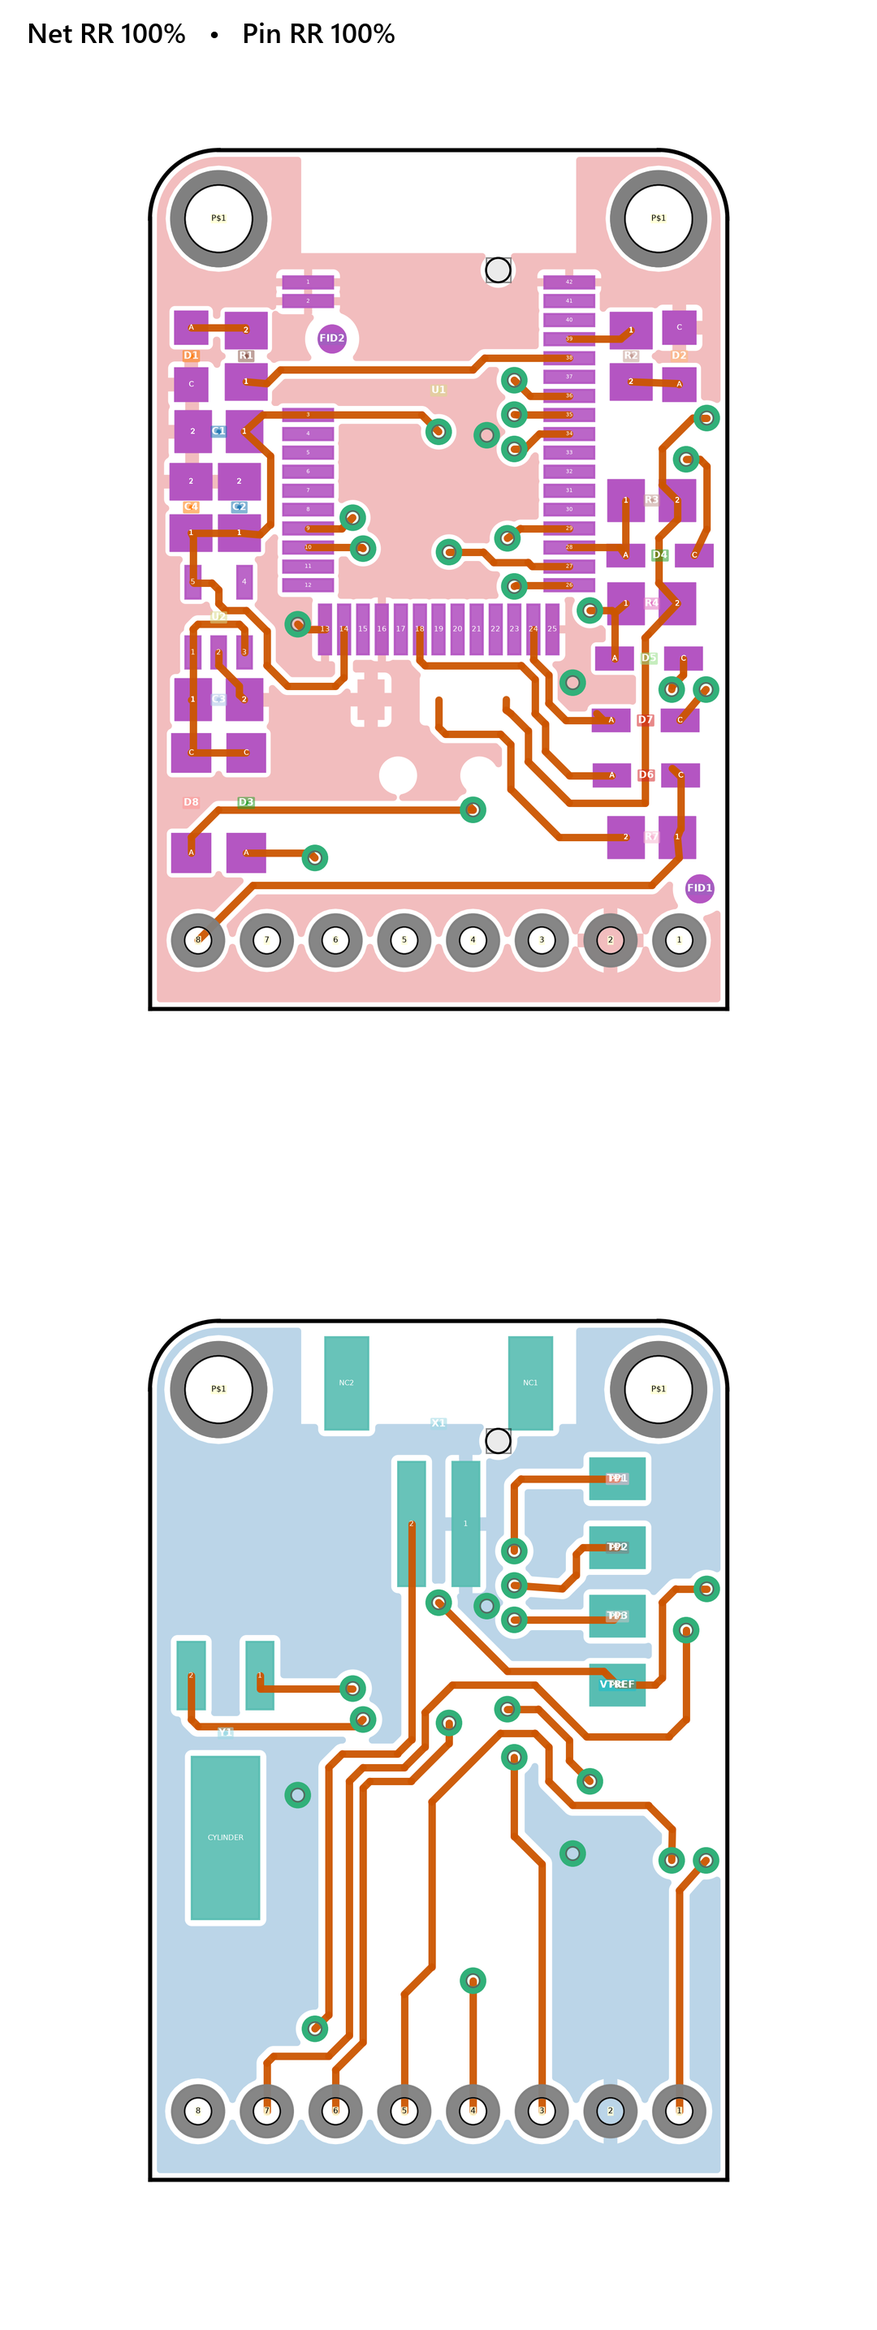
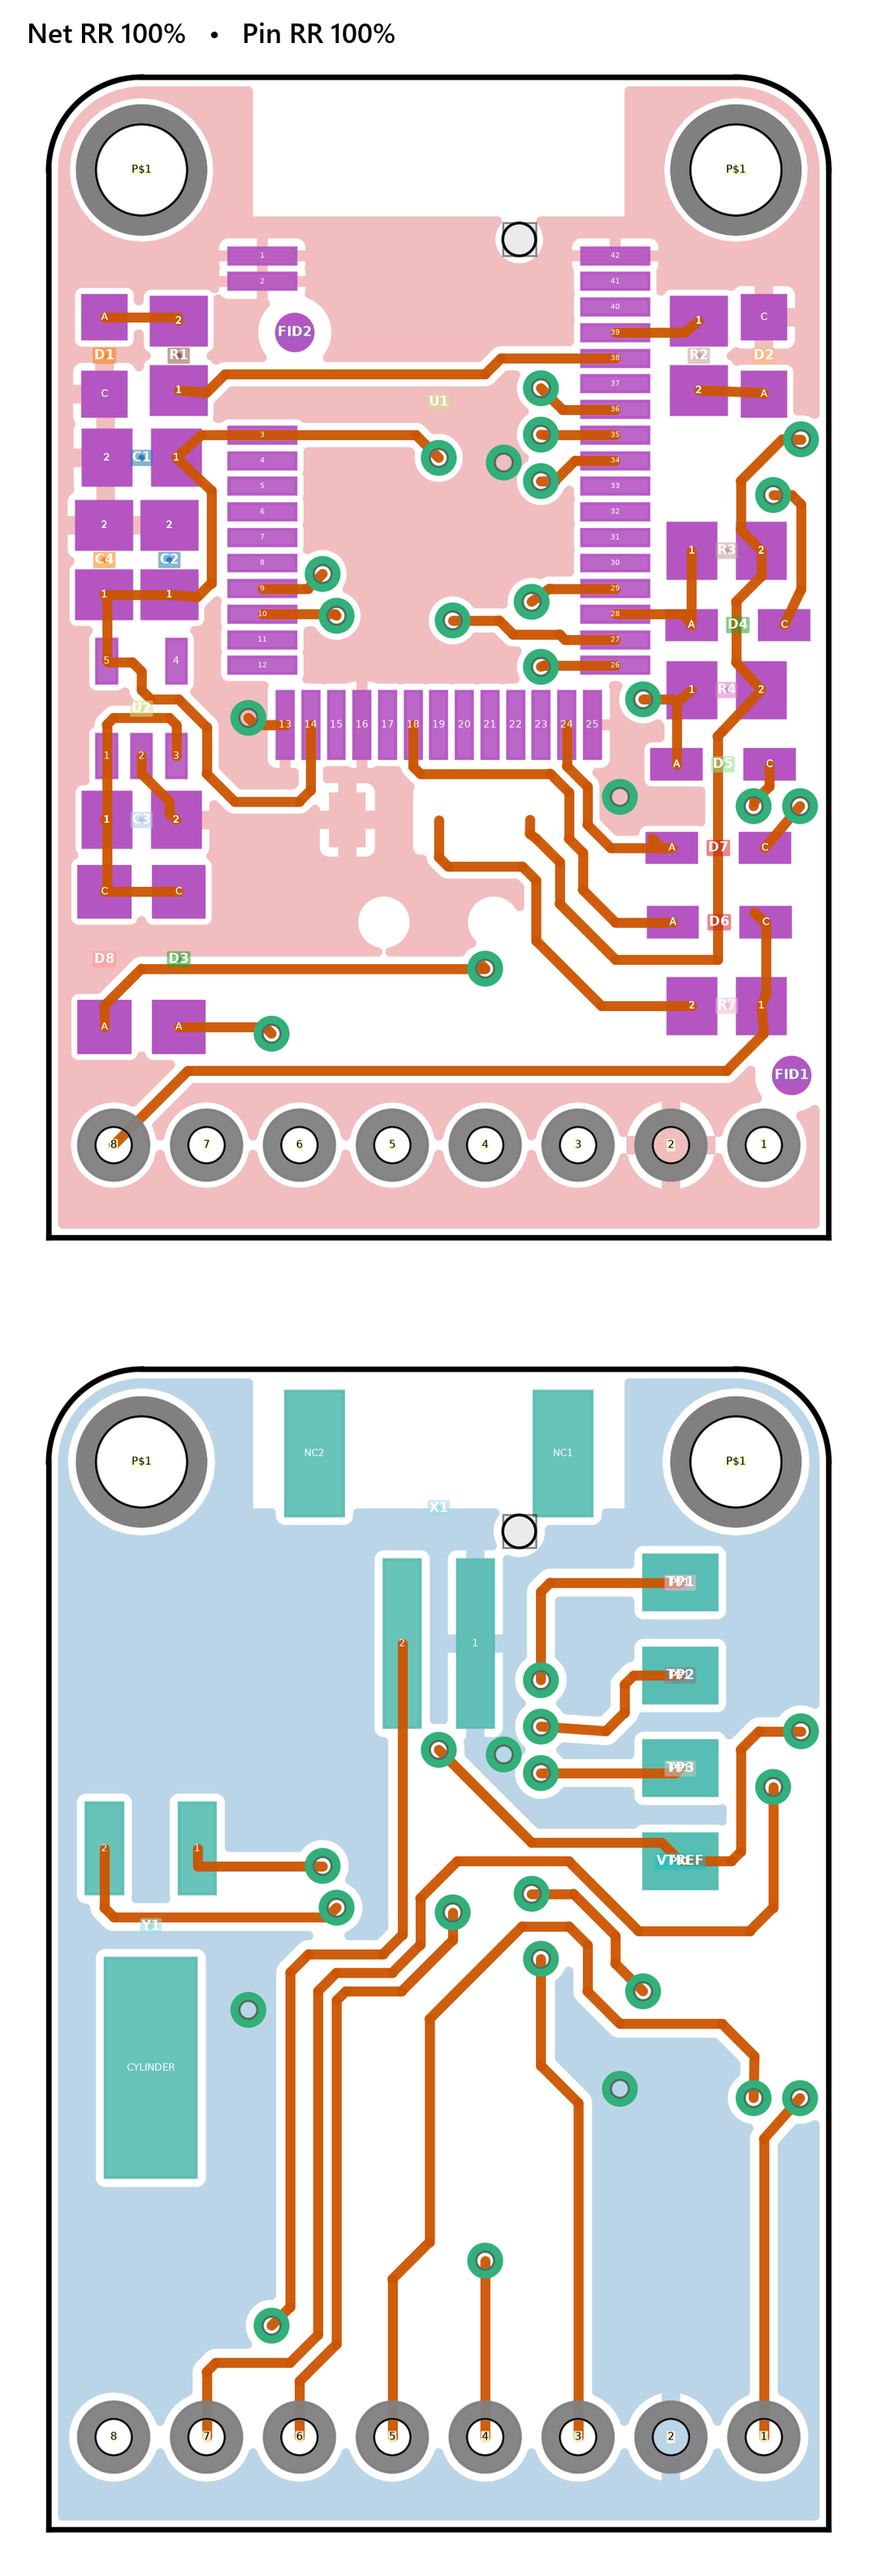
update gif

diff --git a/routing/app.js b/routing/app.js
@@ -153,7 +153,7 @@ function renderModelGrid() {
         <span class="model-tag">Ground truth</span>
       </div>
       <div class="trajectory">
-        <img src="gifs/ground-truth.png?v=adafruit-bluefruit-uart-v13" alt="Ground-truth Adafruit Bluefruit LE UART Friend PCB routing with top and bottom layers shown vertically">
+        <img src="gifs/ground-truth.png?v=adafruit-bluefruit-uart-v14" alt="Ground-truth Adafruit Bluefruit LE UART Friend PCB routing with top and bottom layers shown vertically">
       </div>
       <div class="model-card-footer">
         <span class="status-ready">Reference</span><span>Top and bottom layers</span>
@@ -172,7 +172,7 @@ function renderModelGrid() {
           </div>
           <div class="trajectory">
             <div class="trajectory-loading" aria-hidden="true">Loading synchronized animation...</div>
-            <img data-gif-src="gifs/${activeSetup}--${model.id}.gif?v=adafruit-bluefruit-uart-v13" alt="${model.label} No Tools routing iterations with Net RR and Pin RR metrics baked into each frame" hidden>
+            <img data-gif-src="gifs/${activeSetup}--${model.id}.gif?v=adafruit-bluefruit-uart-v14" alt="${model.label} No Tools routing iterations with Net RR and Pin RR metrics baked into each frame" hidden>
           </div>
           <div class="model-card-footer">
             <span class="status-ready">Available</span>

diff --git a/routing/styles.css b/routing/styles.css
@@ -356,7 +356,7 @@ section {
 
 .trajectory {
   position: relative;
-  aspect-ratio: 1080 / 2870;
+  aspect-ratio: 1080 / 3172;
   overflow: hidden;
   background: #f2f3f6;
   border-top: 1px solid #e6e8ee;

diff --git a/tools/build_routing_gifs.py b/tools/build_routing_gifs.py
@@ -183,7 +183,15 @@ def open_on_white(path: Path, clean_bottom_left_text: bool = False) -> Image.Ima
     image = canvas.convert("RGB")
     if clean_bottom_left_text:
         remove_bottom_left_text(image)
-    return image
+
+    width, height = image.size
+    crop_box = (
+        round(width * 0.13),
+        round(height * 0.08),
+        round(width * 0.87),
+        round(height * 0.90),
+    )
+    return image.crop(crop_box)
 
 
 def compose_sides(
@@ -193,7 +201,7 @@ def compose_sides(
 ) -> Image.Image:
     top = open_on_white(top_path, clean_bottom_left_text)
     bottom = open_on_white(bottom_path, clean_bottom_left_text)
-    gap = 24
+    gap = 12
     width = max(top.width, bottom.width)
     composite = Image.new("RGB", (width, top.height + gap + bottom.height), "white")
     composite.paste(top, ((width - top.width) // 2, 0))
